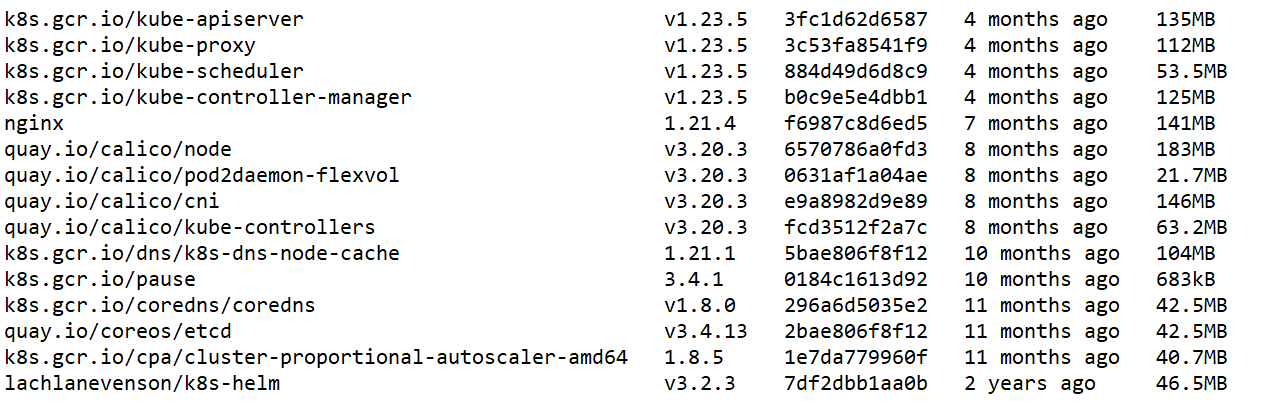
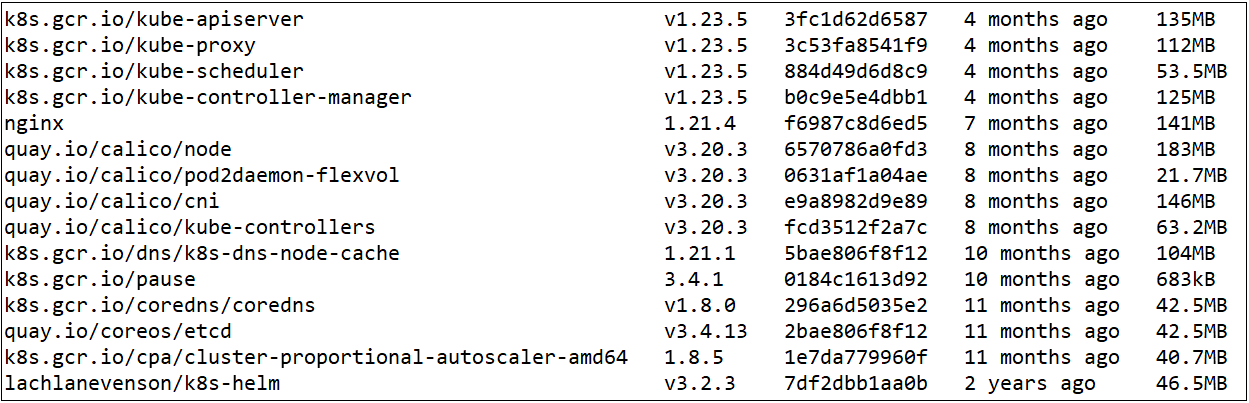
updated image versions of odim and k8s images as per bug 6323

diff --git a/README.md b/README.md
@@ -443,7 +443,7 @@ The following table lists the software components and versions that are compatib
 	   ```
 	   If the images are built successfully, you get an output similar to the following sample:
 	   
-	   <img src="docs/images/odimra_images.png" style="zoom:95%;"   >
+	   <img src="docs/images/odimra_images.png" style="zoom:55%;"   >
 	   
 	7. Pull the reloader and busybox images:
 	   
